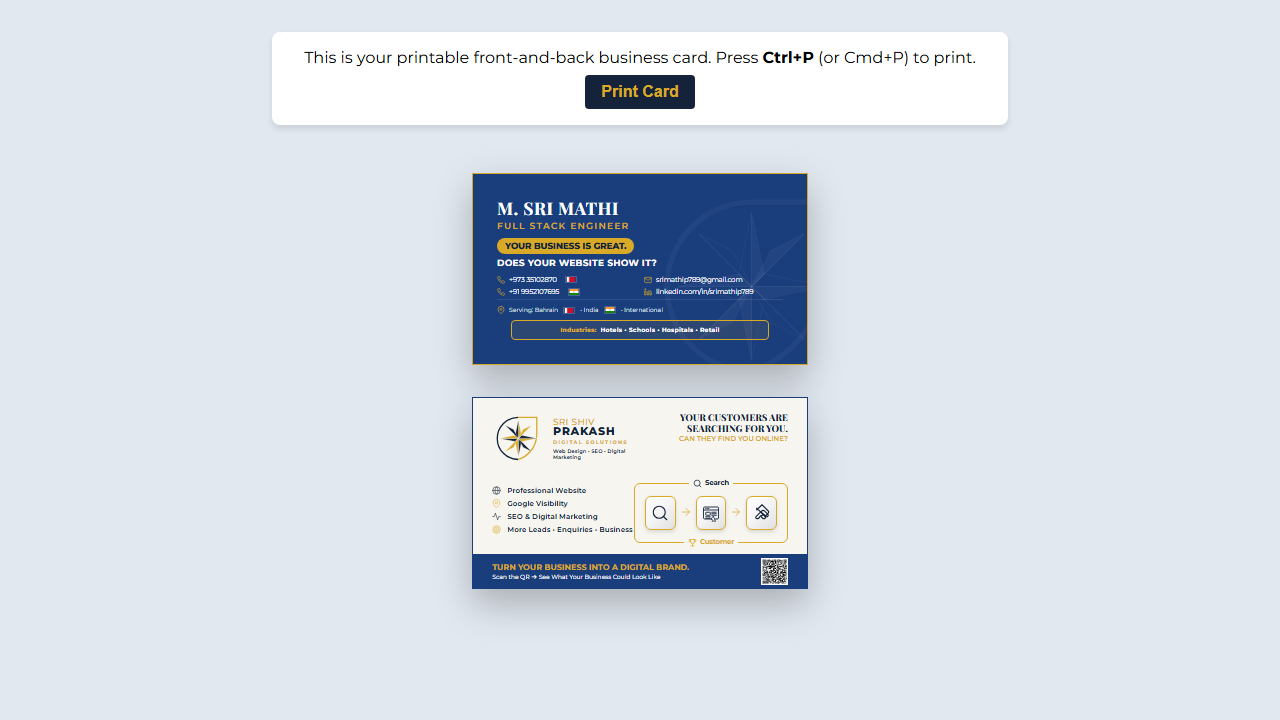
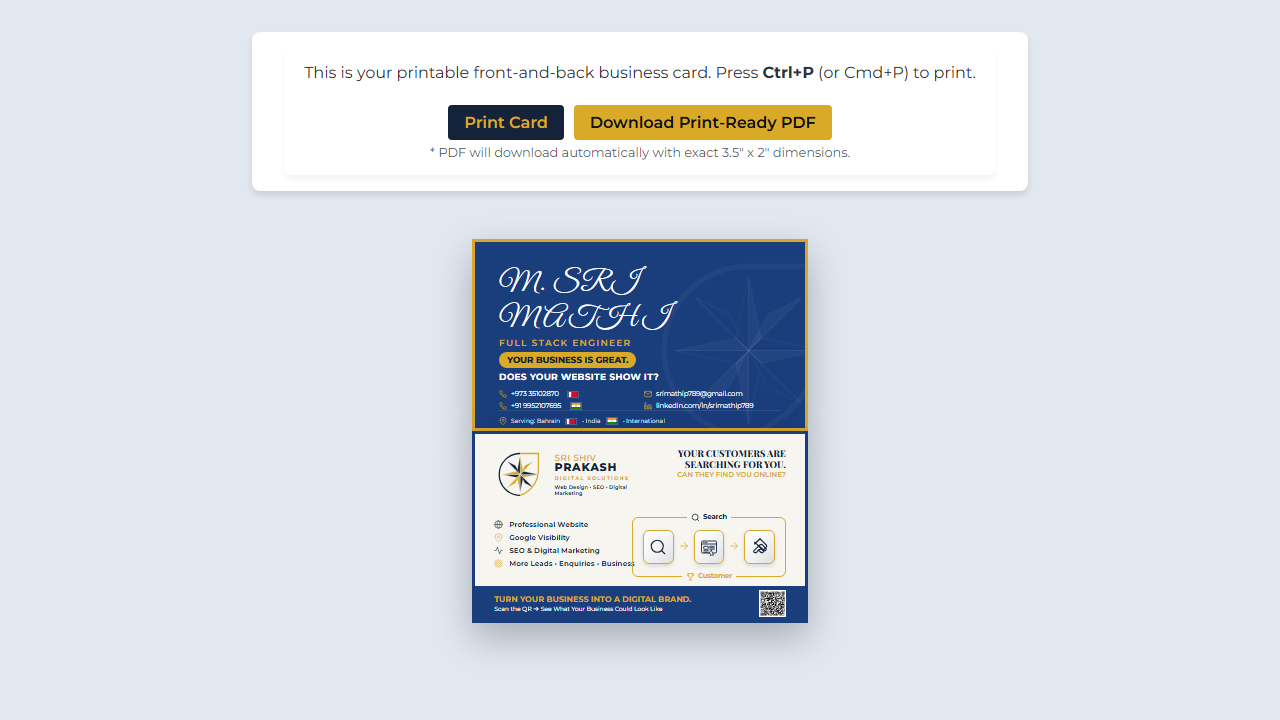
Update name font to Great Vibes cursive and double the card border width

Changed region(s): [[0.1875, 0.0306, 0.8125, 0.9167]]

diff --git a/index.html b/index.html
@@ -6,7 +6,7 @@
     <title>Sri Mathi - Modern Visiting Card</title>
     <link rel="preconnect" href="https://fonts.googleapis.com">
     <link rel="preconnect" href="https://fonts.gstatic.com" crossorigin>
-    <link href="https://fonts.googleapis.com/css2?family=Montserrat:wght@400;500;600;700;800&family=Playfair+Display:wght@700;800&display=swap" rel="stylesheet">
+    <link href="https://fonts.googleapis.com/css2?family=Montserrat:wght@400;500;600;700;800&family=Playfair+Display:wght@700;800&family=Great+Vibes&display=swap" rel="stylesheet">
     <link rel="stylesheet" href="styles.css">
 </head>
 <body>

diff --git a/styles.css b/styles.css
@@ -92,7 +92,7 @@ body {
     box-shadow: 0 15px 35px rgba(0,0,0,0.25);
     position: relative;
     overflow: hidden;
-    border: 1.5px solid #D6A72C;
+    border: 3px solid #D6A72C;
 }
 
 /* --- FRONT CARD --- */
@@ -129,11 +129,11 @@ body {
 }
 
 .name {
-    font-family: 'Playfair Display', serif;
-    font-size: 13pt;
-    font-weight: 700;
+    font-family: 'Great Vibes', cursive;
+    font-size: 22pt;
+    font-weight: 400;
     color: var(--white);
-    letter-spacing: 0.5px;
+    letter-spacing: 1px;
     line-height: 1.2;
 }
 
